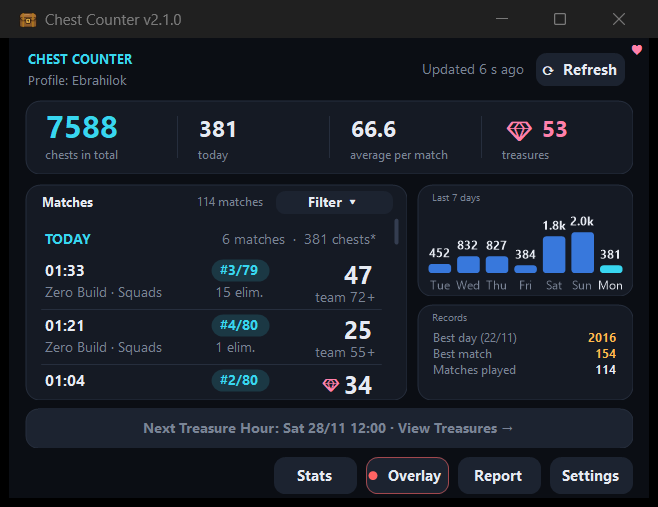
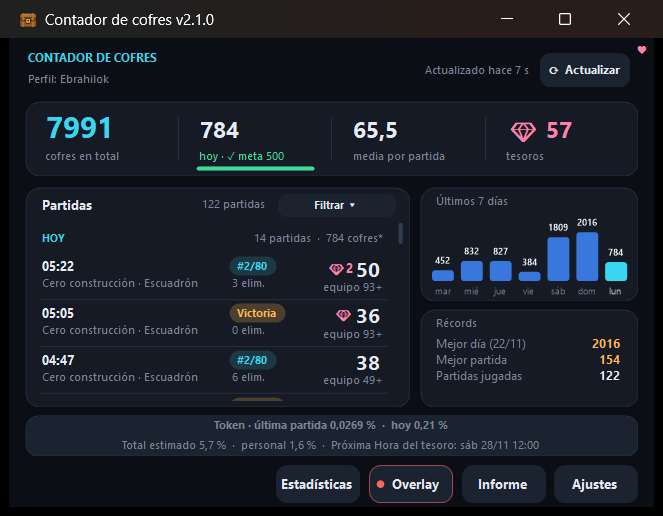
README con capturas reales de la app; Estadísticas más ancha para que no se corten columnas

diff --git a/src/ChestCounter/StatsDialog.cs b/src/ChestCounter/StatsDialog.cs
@@ -12,7 +12,7 @@ namespace ChestCounter;
 [SupportedOSPlatform("windows")]
 public sealed class StatsDialog : Form
 {
-    private const int W = 500, Pad = 18, CardPad = 14;
+    private const int W = 560, Pad = 18, CardPad = 14;
     private readonly Panel _scroll;
     private int _y;
 
@@ -191,6 +191,7 @@ public sealed class StatsDialog : Form
     private void AddModes(List<MatchRow> rows)
     {
         var modes = rows.GroupBy(r => r.Mode).OrderByDescending(g => g.Count()).ToList();
+        ColW = 62;
         var b = Section(L.T("Por modo", "By mode"), L.Count(modes.Count, "modo", "modos", "mode", "modes"));
         Header(b, L.T("Modo", "Mode"), L.T("Partidas", "Matches"), L.T("Media", "Average"), L.T("Récord", "Best"), L.T("Victorias", "Wins"));
         foreach (var g in modes)
@@ -202,6 +203,7 @@ public sealed class StatsDialog : Form
                 wins > 0 ? L.N(wins) : "—",
             });
         }
+        ColW = 84;
         End(b);
     }
 
@@ -280,7 +282,7 @@ public sealed class StatsDialog : Form
     }
 
     // Columnas: nombre (resto del ancho) y hasta 4 cifras de 62 px, alineadas a la derecha.
-    private const int ColW = 74;
+    private static int ColW = 84; // la tabla de modos usa columnas más estrechas (nombres largos)
 
     private static int NameWidth(Block b, int columns) => b.Card.Width - 2 * CardPad - columns * ColW;
 

diff --git a/README.md b/README.md
@@ -78,10 +78,13 @@ ChestCounter lee las repeticiones (replays) que Fortnite guarda de cada partida 
 - **Últimos 7 días**: un gráfico con los cofres de cada día.
 - **Récords** (o **Equipo**, con *Compañeros* activado): mejor día, mejor partida y partidas jugadas; o tus cofres y los de cada compañero en la partida actual o la última.
 - **Horas del tesoro** (más probabilidad de tesoros): la franja de abajo dice cuándo es la próxima, en tu hora local. El día que hay una, junto al perfil aparece una cuenta atrás; durante la hora, la ventana, el overlay y la página de OBS se ponen dorados y el título cuenta el tiempo que queda.
-- **Estadísticas**: probabilidad de tesoro y de token pirata con tus cofres (Epic no publica las cifras: es una estimación con tus datos; sin ningún token todavía, da un límite), cofres según el puesto (¿más cofres = mejor puesto?), por modo y con cada compañero (clic en uno para ver vuestras partidas).
+- **Estadísticas**: tu suerte con los tesoros (con tus propios cofres) y con el **token pirata** (tasa de Epic: 1 de cada 137.500 por cofre, ×1,5 en la Hora del tesoro), cofres según el puesto (¿más cofres = mejor puesto?), por modo y con cada compañero (clic en uno para ver vuestras partidas).
+- **Franja del token** (abajo): probabilidad de token de la última partida (y de la actual, mientras juegas) y la de hoy; debajo, el total estimado (todo lo que cuenta el contador: tus cofres, cajas y los de tus compañeros), el personal (solo tus cofres) y la próxima Hora del tesoro.
 - **Meta diaria**: ponla en Ajustes; se ve como barra bajo «hoy» y en el overlay, y te avisa al cumplirla. Al batir tu récord de cofres en una partida también sale un aviso.
 - **Botones**: **Estadísticas**, **Overlay** (punto verde = activado), **Informe** y **Ajustes**.
 - **♥** (arriba a la derecha): un mensaje de agradecimiento, con el código de creador **DOOFY**.
+
+<p align="center"><img src="docs/match-detail.png" alt="Detalle de una partida: línea de tiempo y tus cofres" width="400">&nbsp;&nbsp;<img src="docs/stats.png" alt="Estadísticas: suerte, cofres según el puesto y por modo" width="400"></p>
 
 La ventana se puede redimensionar y maximizar: todo crece en proporción.
 
@@ -144,10 +147,11 @@ Con **Sumar sus cofres a tu total** (también desactivado), tu total, media, ré
 
 ## El overlay
 
-<p align="center"><img src="docs/overlay-espera.png" alt="Overlay entre dos partidas" width="300">&nbsp;&nbsp;<img src="docs/overlay-en-vivo.png" alt="Overlay en directo durante una partida" width="300"></p>
+<p align="center"><img src="docs/overlay-espera.png" alt="Overlay entre dos partidas, con la probabilidad de token y la meta diaria" width="460"></p>
 
 - **Cifras grandes**: tu **total** de cofres y, en el recuadro, la partida **anterior** (o la **actual**, en directo, mientras juegas).
-- **Sesión**, **media** de la sesión, **anterior** (durante una partida) y **tesoros**.
+- **Sesión** (desde que abriste Fortnite), **media** de la sesión, **anterior** (durante una partida) y **tesoros**.
+- **Token**: total estimado, la partida actual (mientras juegas) y la anterior. **Meta hoy**, si pusiste una meta diaria.
 
 Para verlo sobre el juego, pon Fortnite en **Pantalla completa en ventana** (*Ajustes → Vídeo → Modo de ventana*): en pantalla completa exclusiva, Windows no puede dibujar nada encima. El overlay viene **desactivado**: actívalo con el botón **Overlay** o con Ctrl+Mayús+O.
 

diff --git a/README.en.md b/README.en.md
@@ -78,10 +78,13 @@ ChestCounter reads the replays Fortnite saves of every match and keeps count of 
 - **Last 7 days**: a chart with each day's chests.
 - **Records** (or **Team**, with *Teammates* on): best day, best match and matches played; or your chests and each teammate's in the current or last match.
 - **Treasure Hours** (better treasure odds): the bottom strip shows when the next one is, in your local time. On a day with one, a countdown appears next to the profile; during the hour, the window, the overlay and the OBS page turn gold and the title counts down the time left.
-- **Stats**: treasure and pirate token odds from your chests (Epic doesn't publish the figures: it's an estimate from your data; with no token yet, it gives an upper bound), chests by placement (more chests = better placement?), by mode and with each teammate (click one to see your matches together).
+- **Stats**: your treasure luck (from your own chests) and **pirate token** odds (Epic's rate: 1 in 137,500 per chest, ×1.5 during Treasure Hour), chests by placement (more chests = better placement?), by mode and with each teammate (click one to see your matches together).
+- **Token strip** (bottom): token odds for your last match (and the current one while you play) and for today; underneath, the overall estimate (everything the counter counts: your chests, boxes and your teammates'), the personal one (your chests only) and the next Treasure Hour.
 - **Daily goal**: set it in Settings; it shows as a bar under "today" and in the overlay, with a notice when you reach it. Beating your record for chests in one match also shows a notice.
 - **Buttons**: **Stats**, **Overlay** (green dot = on), **Report** and **Settings**.
 - **♥** (top right): a thank-you message, with the creator code **DOOFY**.
+
+<p align="center"><img src="docs/match-detail.png" alt="Match details: timeline and your chests" width="400">&nbsp;&nbsp;<img src="docs/stats.png" alt="Stats: luck, chests by placement and by mode" width="400"></p>
 
 The window can be resized and maximized: everything grows in proportion.
 
@@ -140,10 +143,11 @@ With **Add their chests to your total** (also off), your total, average, records
 
 ## The overlay
 
-<p align="center"><img src="docs/overlay-espera.png" alt="Overlay between two matches" width="300">&nbsp;&nbsp;<img src="docs/overlay-en-vivo.png" alt="Overlay live during a match" width="300"></p>
+<p align="center"><img src="docs/overlay-espera.png" alt="Overlay between matches, with token odds and the daily goal" width="460"></p>
 
 - **Big numbers**: your chest **total** and, in the box, the **previous** match (or the **current** one, live, while you play).
-- **Session**, session **average**, **previous** (during a match) and **treasures**.
+- **Session** (since you opened Fortnite), session **average**, **previous** (during a match) and **treasures**.
+- **Token**: overall estimate, the current match (while you play) and the previous one. **Today's goal**, if you set a daily goal.
 
 To see it over the game, set Fortnite to **Windowed Fullscreen** (*Settings → Video → Window Mode*): in exclusive fullscreen Windows cannot draw on top. The overlay starts **off**: turn it on with the **Overlay** button or Ctrl+Shift+O.
 
